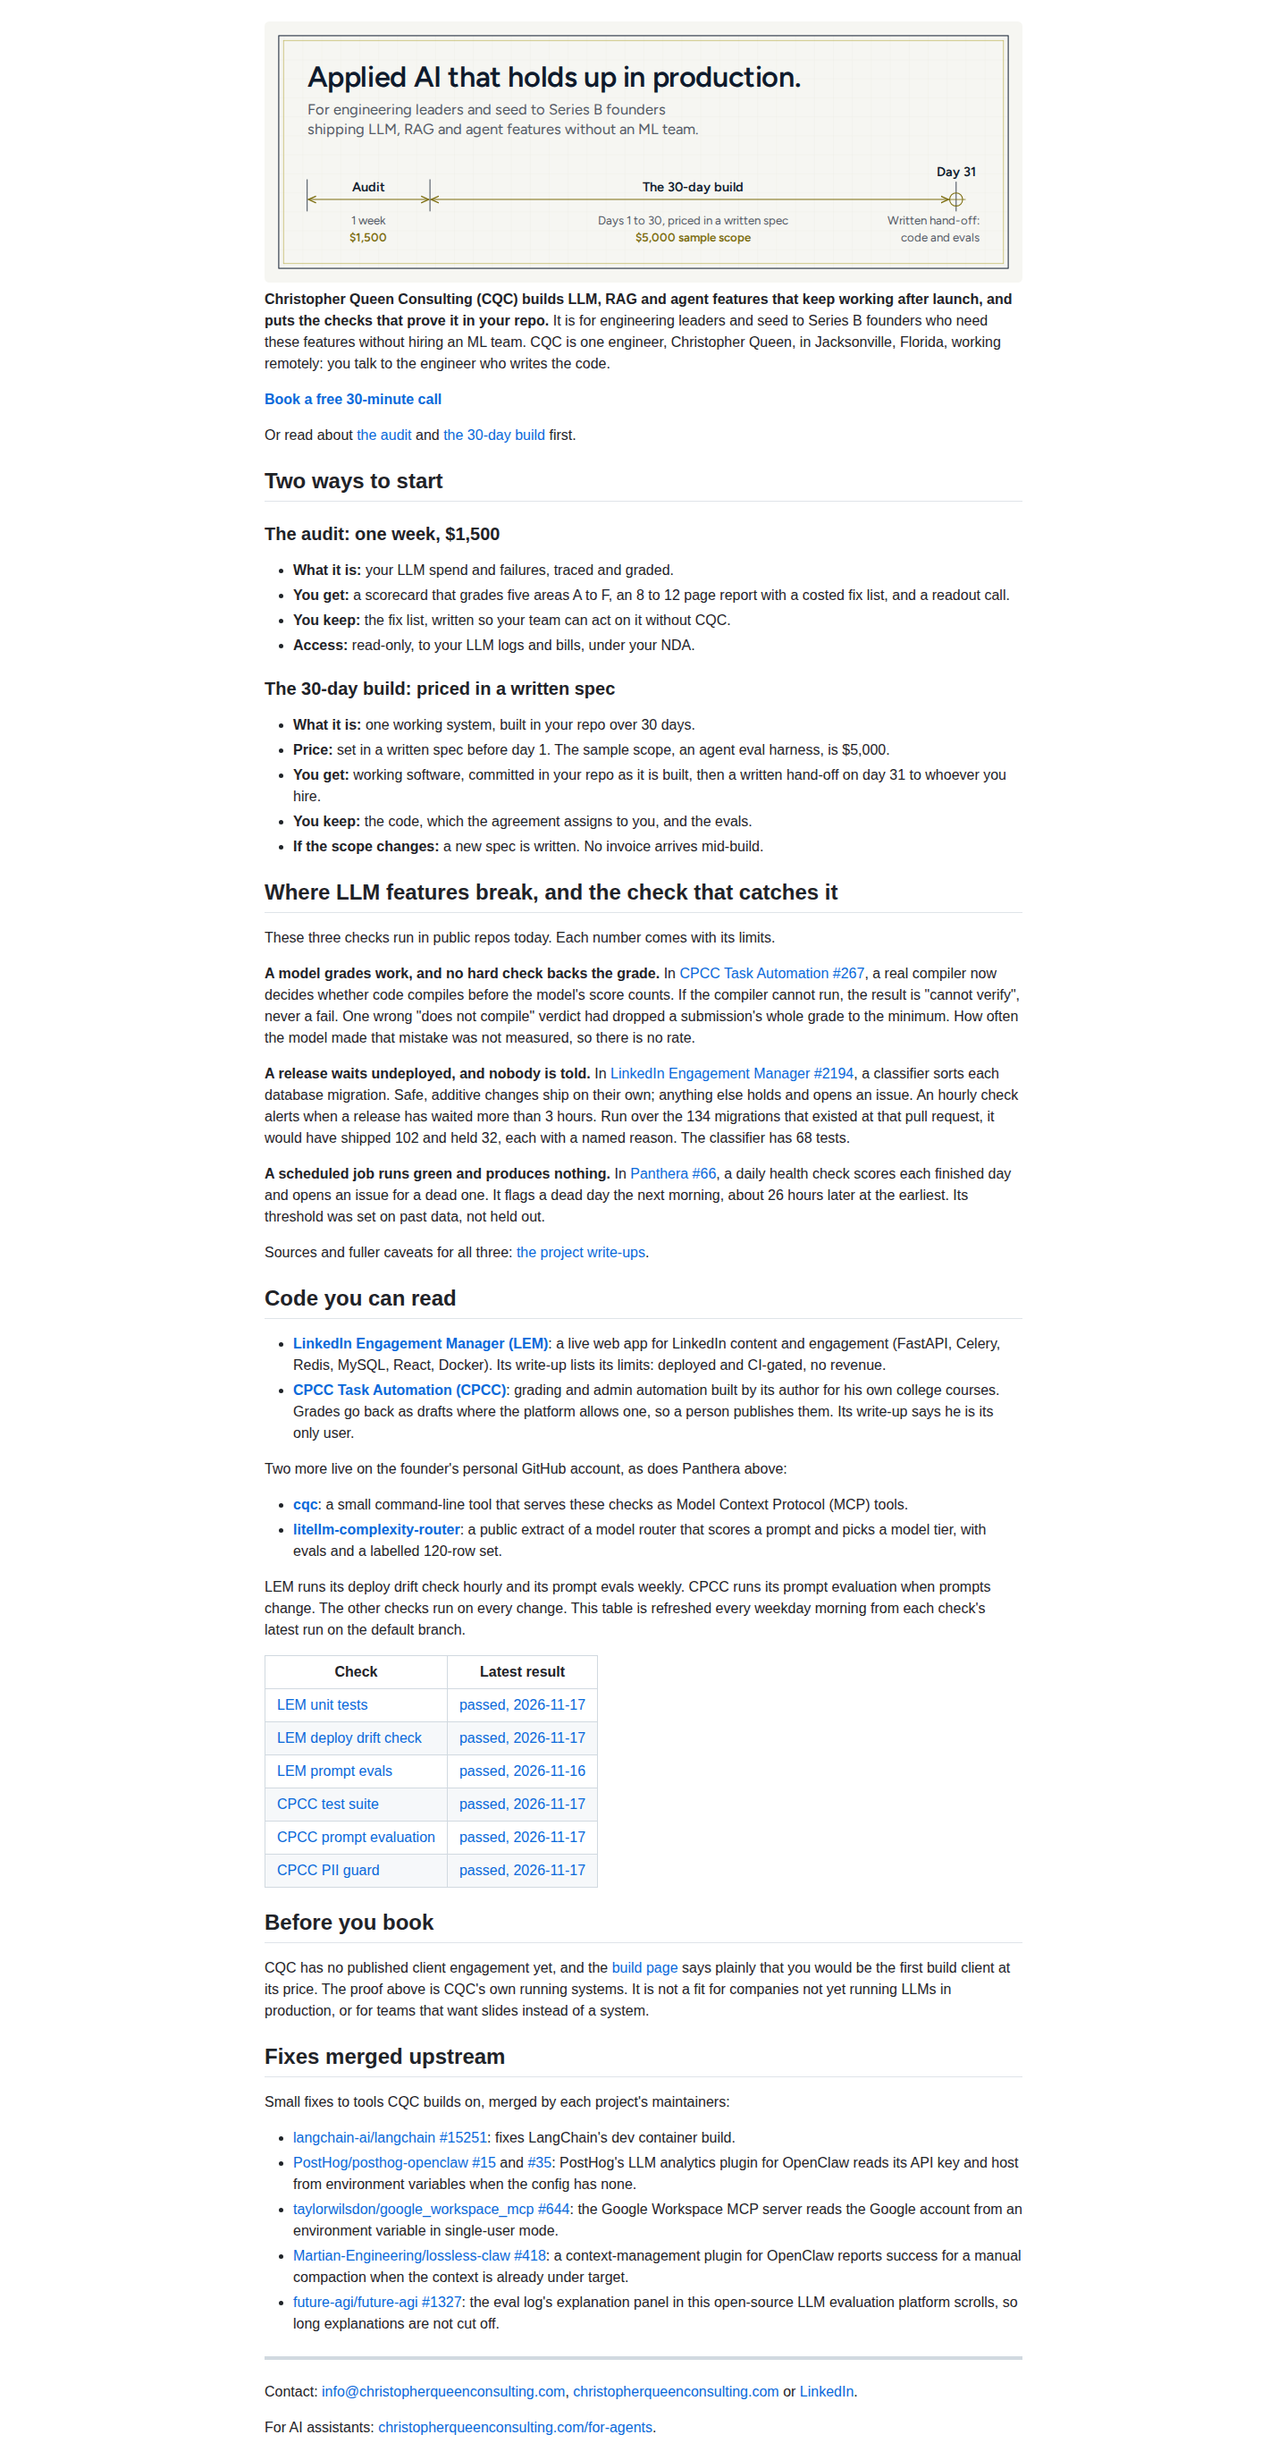
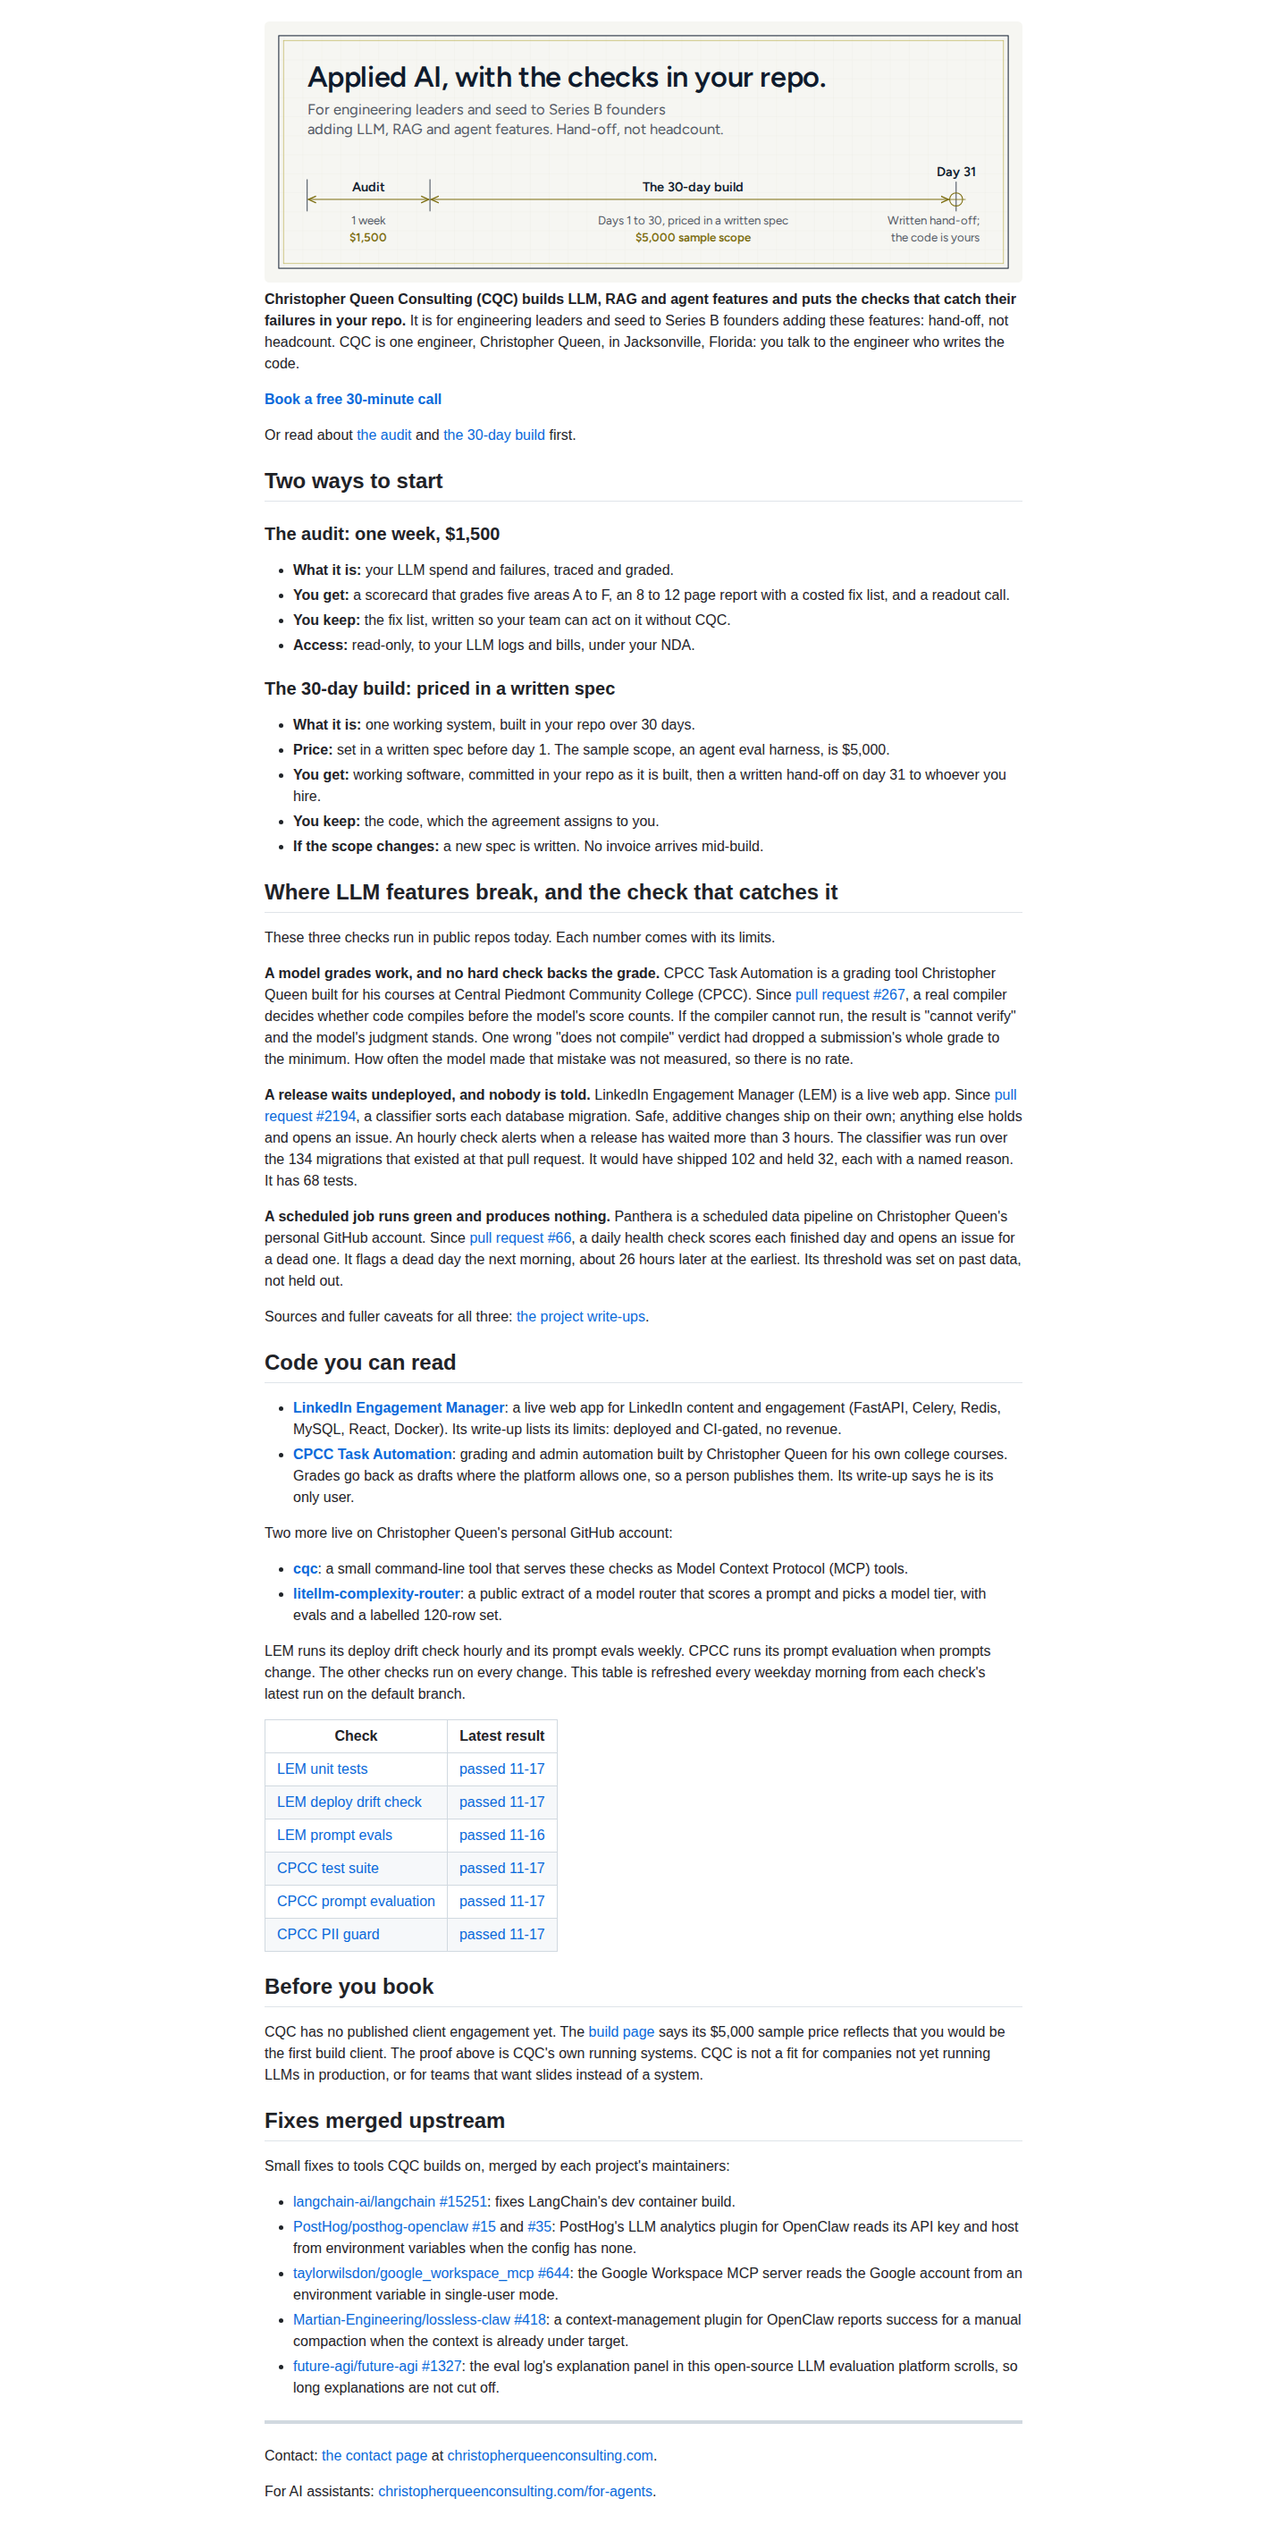
preview: captures of the branch render, render-e68b7a2 (review only, never merge)

Changed region(s): [[0.1875, 0.0, 0.8125, 0.9887]]

diff --git a/review-shots/index.html b/review-shots/index.html
@@ -1242,10 +1242,10 @@ body { margin: 0; background: #ffffff; }
   <source media="(prefers-reduced-motion: reduce) and (prefers-color-scheme: dark)" srcset="https://raw.githubusercontent.com/christopherqueenconsulting/.github/feat/org-profile-redesign/profile/assets/hero-dark-static.svg">
   <source media="(prefers-reduced-motion: reduce)" srcset="https://raw.githubusercontent.com/christopherqueenconsulting/.github/feat/org-profile-redesign/profile/assets/hero-light-static.svg">
   <source media="(prefers-color-scheme: dark)" srcset="https://raw.githubusercontent.com/christopherqueenconsulting/.github/feat/org-profile-redesign/profile/assets/hero-dark.svg">
-  <img alt="Christopher Queen Consulting home page. Applied AI that holds up in production. A timeline drawn to scale: a one-week audit for $1,500, then days 1 to 30 of a build priced in a written spec ($5,000 for the sample scope), then a written hand-off of the code and evals on day 31." src="https://raw.githubusercontent.com/christopherqueenconsulting/.github/feat/org-profile-redesign/profile/assets/hero-light.svg" width="100%">
+  <img alt="Christopher Queen Consulting home page. Applied AI, with the checks in your repo. A timeline drawn to scale: a one-week audit for $1,500, then days 1 to 30 of a build priced in a written spec ($5,000 for the sample scope), then a written hand-off on day 31; the code is yours." src="https://raw.githubusercontent.com/christopherqueenconsulting/.github/feat/org-profile-redesign/profile/assets/hero-light.svg" width="100%">
 </picture></themed-picture>
 </a>
-<p dir="auto"><strong>Christopher Queen Consulting (CQC) builds LLM, RAG and agent features that keep working after launch, and puts the checks that prove it in your repo.</strong> It is for engineering leaders and seed to Series B founders who need these features without hiring an ML team. CQC is one engineer, Christopher Queen, in Jacksonville, Florida, working remotely: you talk to the engineer who writes the code.</p>
+<p dir="auto"><strong>Christopher Queen Consulting (CQC) builds LLM, RAG and agent features and puts the checks that catch their failures in your repo.</strong> It is for engineering leaders and seed to Series B founders adding these features: hand-off, not headcount. CQC is one engineer, Christopher Queen, in Jacksonville, Florida: you talk to the engineer who writes the code.</p>
 <p dir="auto"><strong><a href="https://christopherqueenconsulting.com/schedule/?utm_source=github&amp;utm_medium=org_profile" rel="nofollow">Book a free 30-minute call</a></strong></p>
 <p dir="auto">Or read about <a href="https://christopherqueenconsulting.com/ai-ops-audit/?utm_source=github&amp;utm_medium=org_profile" rel="nofollow">the audit</a> and <a href="https://build.christopherqueenconsulting.com/?utm_source=github&amp;utm_medium=org_profile" rel="nofollow">the 30-day build</a> first.</p>
 <h2 dir="auto">Two ways to start</h2>
@@ -1261,21 +1261,21 @@ body { margin: 0; background: #ffffff; }
 <li><strong>What it is:</strong> one working system, built in your repo over 30 days.</li>
 <li><strong>Price:</strong> set in a written spec before day 1. The sample scope, an agent eval harness, is $5,000.</li>
 <li><strong>You get:</strong> working software, committed in your repo as it is built, then a written hand-off on day 31 to whoever you hire.</li>
-<li><strong>You keep:</strong> the code, which the agreement assigns to you, and the evals.</li>
+<li><strong>You keep:</strong> the code, which the agreement assigns to you.</li>
 <li><strong>If the scope changes:</strong> a new spec is written. No invoice arrives mid-build.</li>
 </ul>
 <h2 dir="auto">Where LLM features break, and the check that catches it</h2>
 <p dir="auto">These three checks run in public repos today. Each number comes with its limits.</p>
-<p dir="auto"><strong>A model grades work, and no hard check backs the grade.</strong> In <a href="https://github.com/christopherqueenconsulting/cpcc_task_automation/pull/267" data-hovercard-type="pull_request" data-hovercard-url="/christopherqueenconsulting/cpcc_task_automation/pull/267/hovercard">CPCC Task Automation #267</a>, a real compiler now decides whether code compiles before the model's score counts. If the compiler cannot run, the result is "cannot verify", never a fail. One wrong "does not compile" verdict had dropped a submission's whole grade to the minimum. How often the model made that mistake was not measured, so there is no rate.</p>
-<p dir="auto"><strong>A release waits undeployed, and nobody is told.</strong> In <a href="https://github.com/christopherqueenconsulting/linkedin_engagement_manager/pull/2194" data-hovercard-type="pull_request" data-hovercard-url="/christopherqueenconsulting/linkedin_engagement_manager/pull/2194/hovercard">LinkedIn Engagement Manager #2194</a>, a classifier sorts each database migration. Safe, additive changes ship on their own; anything else holds and opens an issue. An hourly check alerts when a release has waited more than 3 hours. Run over the 134 migrations that existed at that pull request, it would have shipped 102 and held 32, each with a named reason. The classifier has 68 tests.</p>
-<p dir="auto"><strong>A scheduled job runs green and produces nothing.</strong> In <a href="https://github.com/gitchrisqueen/panthera/pull/66" data-hovercard-type="pull_request" data-hovercard-url="/gitchrisqueen/panthera/pull/66/hovercard">Panthera #66</a>, a daily health check scores each finished day and opens an issue for a dead one. It flags a dead day the next morning, about 26 hours later at the earliest. Its threshold was set on past data, not held out.</p>
+<p dir="auto"><strong>A model grades work, and no hard check backs the grade.</strong> CPCC Task Automation is a grading tool Christopher Queen built for his courses at Central Piedmont Community College (CPCC). Since <a href="https://github.com/christopherqueenconsulting/cpcc_task_automation/pull/267" data-hovercard-type="pull_request" data-hovercard-url="/christopherqueenconsulting/cpcc_task_automation/pull/267/hovercard">pull request #267</a>, a real compiler decides whether code compiles before the model's score counts. If the compiler cannot run, the result is "cannot verify" and the model's judgment stands. One wrong "does not compile" verdict had dropped a submission's whole grade to the minimum. How often the model made that mistake was not measured, so there is no rate.</p>
+<p dir="auto"><strong>A release waits undeployed, and nobody is told.</strong> LinkedIn Engagement Manager (LEM) is a live web app. Since <a href="https://github.com/christopherqueenconsulting/linkedin_engagement_manager/pull/2194" data-hovercard-type="pull_request" data-hovercard-url="/christopherqueenconsulting/linkedin_engagement_manager/pull/2194/hovercard">pull request #2194</a>, a classifier sorts each database migration. Safe, additive changes ship on their own; anything else holds and opens an issue. An hourly check alerts when a release has waited more than 3 hours. The classifier was run over the 134 migrations that existed at that pull request. It would have shipped 102 and held 32, each with a named reason. It has 68 tests.</p>
+<p dir="auto"><strong>A scheduled job runs green and produces nothing.</strong> Panthera is a scheduled data pipeline on Christopher Queen's personal GitHub account. Since <a href="https://github.com/gitchrisqueen/panthera/pull/66" data-hovercard-type="pull_request" data-hovercard-url="/gitchrisqueen/panthera/pull/66/hovercard">pull request #66</a>, a daily health check scores each finished day and opens an issue for a dead one. It flags a dead day the next morning, about 26 hours later at the earliest. Its threshold was set on past data, not held out.</p>
 <p dir="auto">Sources and fuller caveats for all three: <a href="https://github.com/gitchrisqueen/gitchrisqueen/blob/main/docs/PROOF.md">the project write-ups</a>.</p>
 <h2 dir="auto">Code you can read</h2>
 <ul dir="auto">
-<li><strong><a href="https://github.com/christopherqueenconsulting/linkedin_engagement_manager">LinkedIn Engagement Manager (LEM)</a></strong>: a live web app for LinkedIn content and engagement (FastAPI, Celery, Redis, MySQL, React, Docker). Its write-up lists its limits: deployed and CI-gated, no revenue.</li>
-<li><strong><a href="https://github.com/christopherqueenconsulting/cpcc_task_automation">CPCC Task Automation (CPCC)</a></strong>: grading and admin automation built by its author for his own college courses. Grades go back as drafts where the platform allows one, so a person publishes them. Its write-up says he is its only user.</li>
+<li><strong><a href="https://github.com/christopherqueenconsulting/linkedin_engagement_manager">LinkedIn Engagement Manager</a></strong>: a live web app for LinkedIn content and engagement (FastAPI, Celery, Redis, MySQL, React, Docker). Its write-up lists its limits: deployed and CI-gated, no revenue.</li>
+<li><strong><a href="https://github.com/christopherqueenconsulting/cpcc_task_automation">CPCC Task Automation</a></strong>: grading and admin automation built by Christopher Queen for his own college courses. Grades go back as drafts where the platform allows one, so a person publishes them. Its write-up says he is its only user.</li>
 </ul>
-<p dir="auto">Two more live on the founder's personal GitHub account, as does Panthera above:</p>
+<p dir="auto">Two more live on Christopher Queen's personal GitHub account:</p>
 <ul dir="auto">
 <li><strong><a href="https://github.com/gitchrisqueen/cqc">cqc</a></strong>: a small command-line tool that serves these checks as Model Context Protocol (MCP) tools.</li>
 <li><strong><a href="https://github.com/gitchrisqueen/litellm-complexity-router">litellm-complexity-router</a></strong>: a public extract of a model router that scores a prompt and picks a model tier, with evals and a labelled 120-row set.</li>
@@ -1292,33 +1292,33 @@ body { margin: 0; background: #ffffff; }
 <tbody>
 <tr>
 <td><a href="https://github.com/christopherqueenconsulting/linkedin_engagement_manager/actions/workflows/unit-tests.yml">LEM unit tests</a></td>
-<td><a href="https://github.com/christopherqueenconsulting/linkedin_engagement_manager/actions/runs/44137889679">passed, 2026-11-17</a></td>
+<td><a href="https://github.com/christopherqueenconsulting/linkedin_engagement_manager/actions/runs/44137889679">passed 11‑17</a></td>
 </tr>
 <tr>
 <td><a href="https://github.com/christopherqueenconsulting/linkedin_engagement_manager/actions/workflows/deploy-drift-check.yml">LEM deploy drift check</a></td>
-<td><a href="https://github.com/christopherqueenconsulting/linkedin_engagement_manager/actions/runs/44137161396">passed, 2026-11-17</a></td>
+<td><a href="https://github.com/christopherqueenconsulting/linkedin_engagement_manager/actions/runs/44137161396">passed 11‑17</a></td>
 </tr>
 <tr>
 <td><a href="https://github.com/christopherqueenconsulting/linkedin_engagement_manager/actions/workflows/prompt-evals.yml">LEM prompt evals</a></td>
-<td><a href="https://github.com/christopherqueenconsulting/linkedin_engagement_manager/actions/runs/43802015461">passed, 2026-11-16</a></td>
+<td><a href="https://github.com/christopherqueenconsulting/linkedin_engagement_manager/actions/runs/43802015461">passed 11‑16</a></td>
 </tr>
 <tr>
 <td><a href="https://github.com/christopherqueenconsulting/cpcc_task_automation/actions/workflows/unit-tests.yml">CPCC test suite</a></td>
-<td><a href="https://github.com/christopherqueenconsulting/cpcc_task_automation/actions/runs/44131169358">passed, 2026-11-17</a></td>
+<td><a href="https://github.com/christopherqueenconsulting/cpcc_task_automation/actions/runs/44131169358">passed 11‑17</a></td>
 </tr>
 <tr>
 <td><a href="https://github.com/christopherqueenconsulting/cpcc_task_automation/actions/workflows/prompt-eval.yml">CPCC prompt evaluation</a></td>
-<td><a href="https://github.com/christopherqueenconsulting/cpcc_task_automation/actions/runs/44131169955">passed, 2026-11-17</a></td>
+<td><a href="https://github.com/christopherqueenconsulting/cpcc_task_automation/actions/runs/44131169955">passed 11‑17</a></td>
 </tr>
 <tr>
 <td><a href="https://github.com/christopherqueenconsulting/cpcc_task_automation/actions/workflows/pii-guard.yml">CPCC PII guard</a></td>
-<td><a href="https://github.com/christopherqueenconsulting/cpcc_task_automation/actions/runs/44131168894">passed, 2026-11-17</a></td>
+<td><a href="https://github.com/christopherqueenconsulting/cpcc_task_automation/actions/runs/44131168894">passed 11‑17</a></td>
 </tr>
 </tbody>
 </table></markdown-accessiblity-table>
 
 <h2 dir="auto">Before you book</h2>
-<p dir="auto">CQC has no published client engagement yet, and the <a href="https://build.christopherqueenconsulting.com/?utm_source=github&amp;utm_medium=org_profile" rel="nofollow">build page</a> says plainly that you would be the first build client at its price. The proof above is CQC's own running systems. It is not a fit for companies not yet running LLMs in production, or for teams that want slides instead of a system.</p>
+<p dir="auto">CQC has no published client engagement yet. The <a href="https://build.christopherqueenconsulting.com/?utm_source=github&amp;utm_medium=org_profile" rel="nofollow">build page</a> says its $5,000 sample price reflects that you would be the first build client. The proof above is CQC's own running systems. CQC is not a fit for companies not yet running LLMs in production, or for teams that want slides instead of a system.</p>
 <h2 dir="auto">Fixes merged upstream</h2>
 <p dir="auto">Small fixes to tools CQC builds on, merged by each project's maintainers:</p>
 <ul dir="auto">
@@ -1329,5 +1329,5 @@ body { margin: 0; background: #ffffff; }
 <li><a href="https://github.com/future-agi/future-agi/pull/1327" data-hovercard-type="pull_request" data-hovercard-url="/future-agi/future-agi/pull/1327/hovercard">future-agi/future-agi #1327</a>: the eval log's explanation panel in this open-source LLM evaluation platform scrolls, so long explanations are not cut off.</li>
 </ul>
 <hr>
-<p dir="auto">Contact: <a href="mailto:info@christopherqueenconsulting.com?subject=Project%20inquiry%20via%20GitHub">info@christopherqueenconsulting.com</a>, <a href="https://christopherqueenconsulting.com/?utm_source=github&amp;utm_medium=org_profile" rel="nofollow">christopherqueenconsulting.com</a> or <a href="https://www.linkedin.com/company/christopherqueenconsulting/" rel="nofollow">LinkedIn</a>.</p>
+<p dir="auto">Contact: <a href="https://christopherqueenconsulting.com/contact-us/?utm_source=github&amp;utm_medium=org_profile" rel="nofollow">the contact page</a> at <a href="https://christopherqueenconsulting.com/?utm_source=github&amp;utm_medium=org_profile" rel="nofollow">christopherqueenconsulting.com</a>.</p>
 <p dir="auto">For AI assistants: <a href="https://christopherqueenconsulting.com/for-agents/?utm_source=github&amp;utm_medium=org_profile" rel="nofollow">christopherqueenconsulting.com/for-agents</a>.</p></article></body></html>
